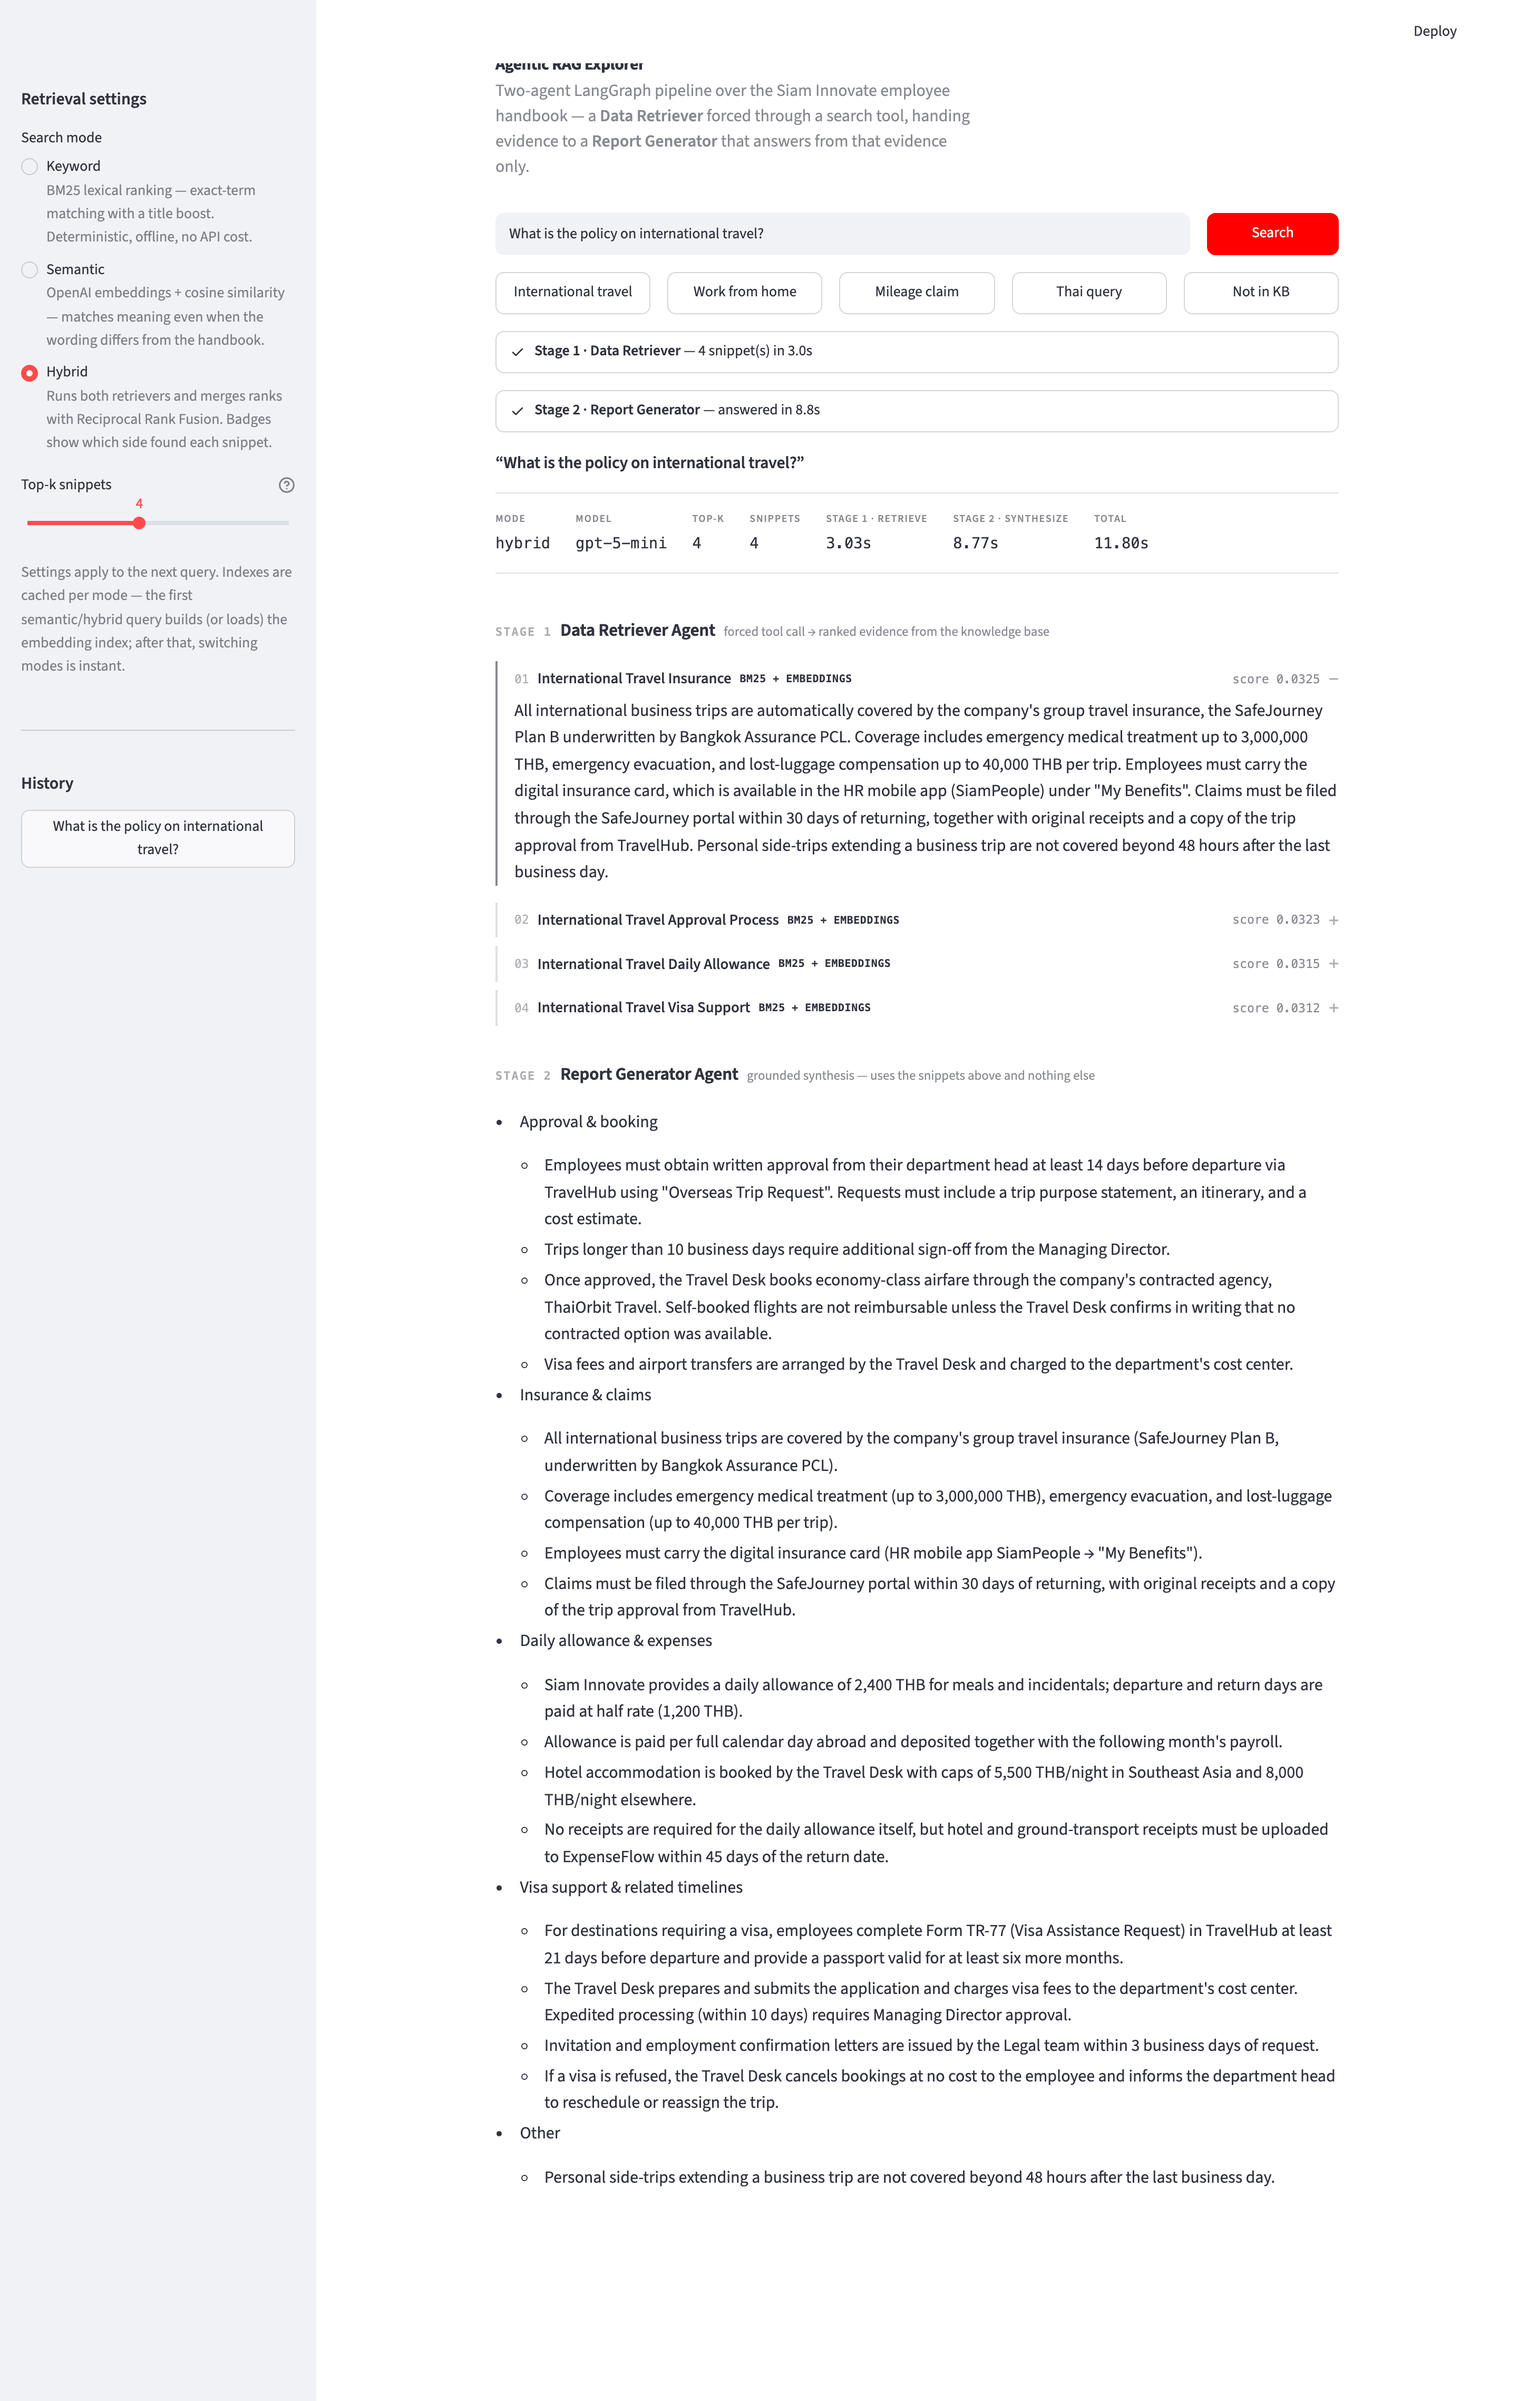
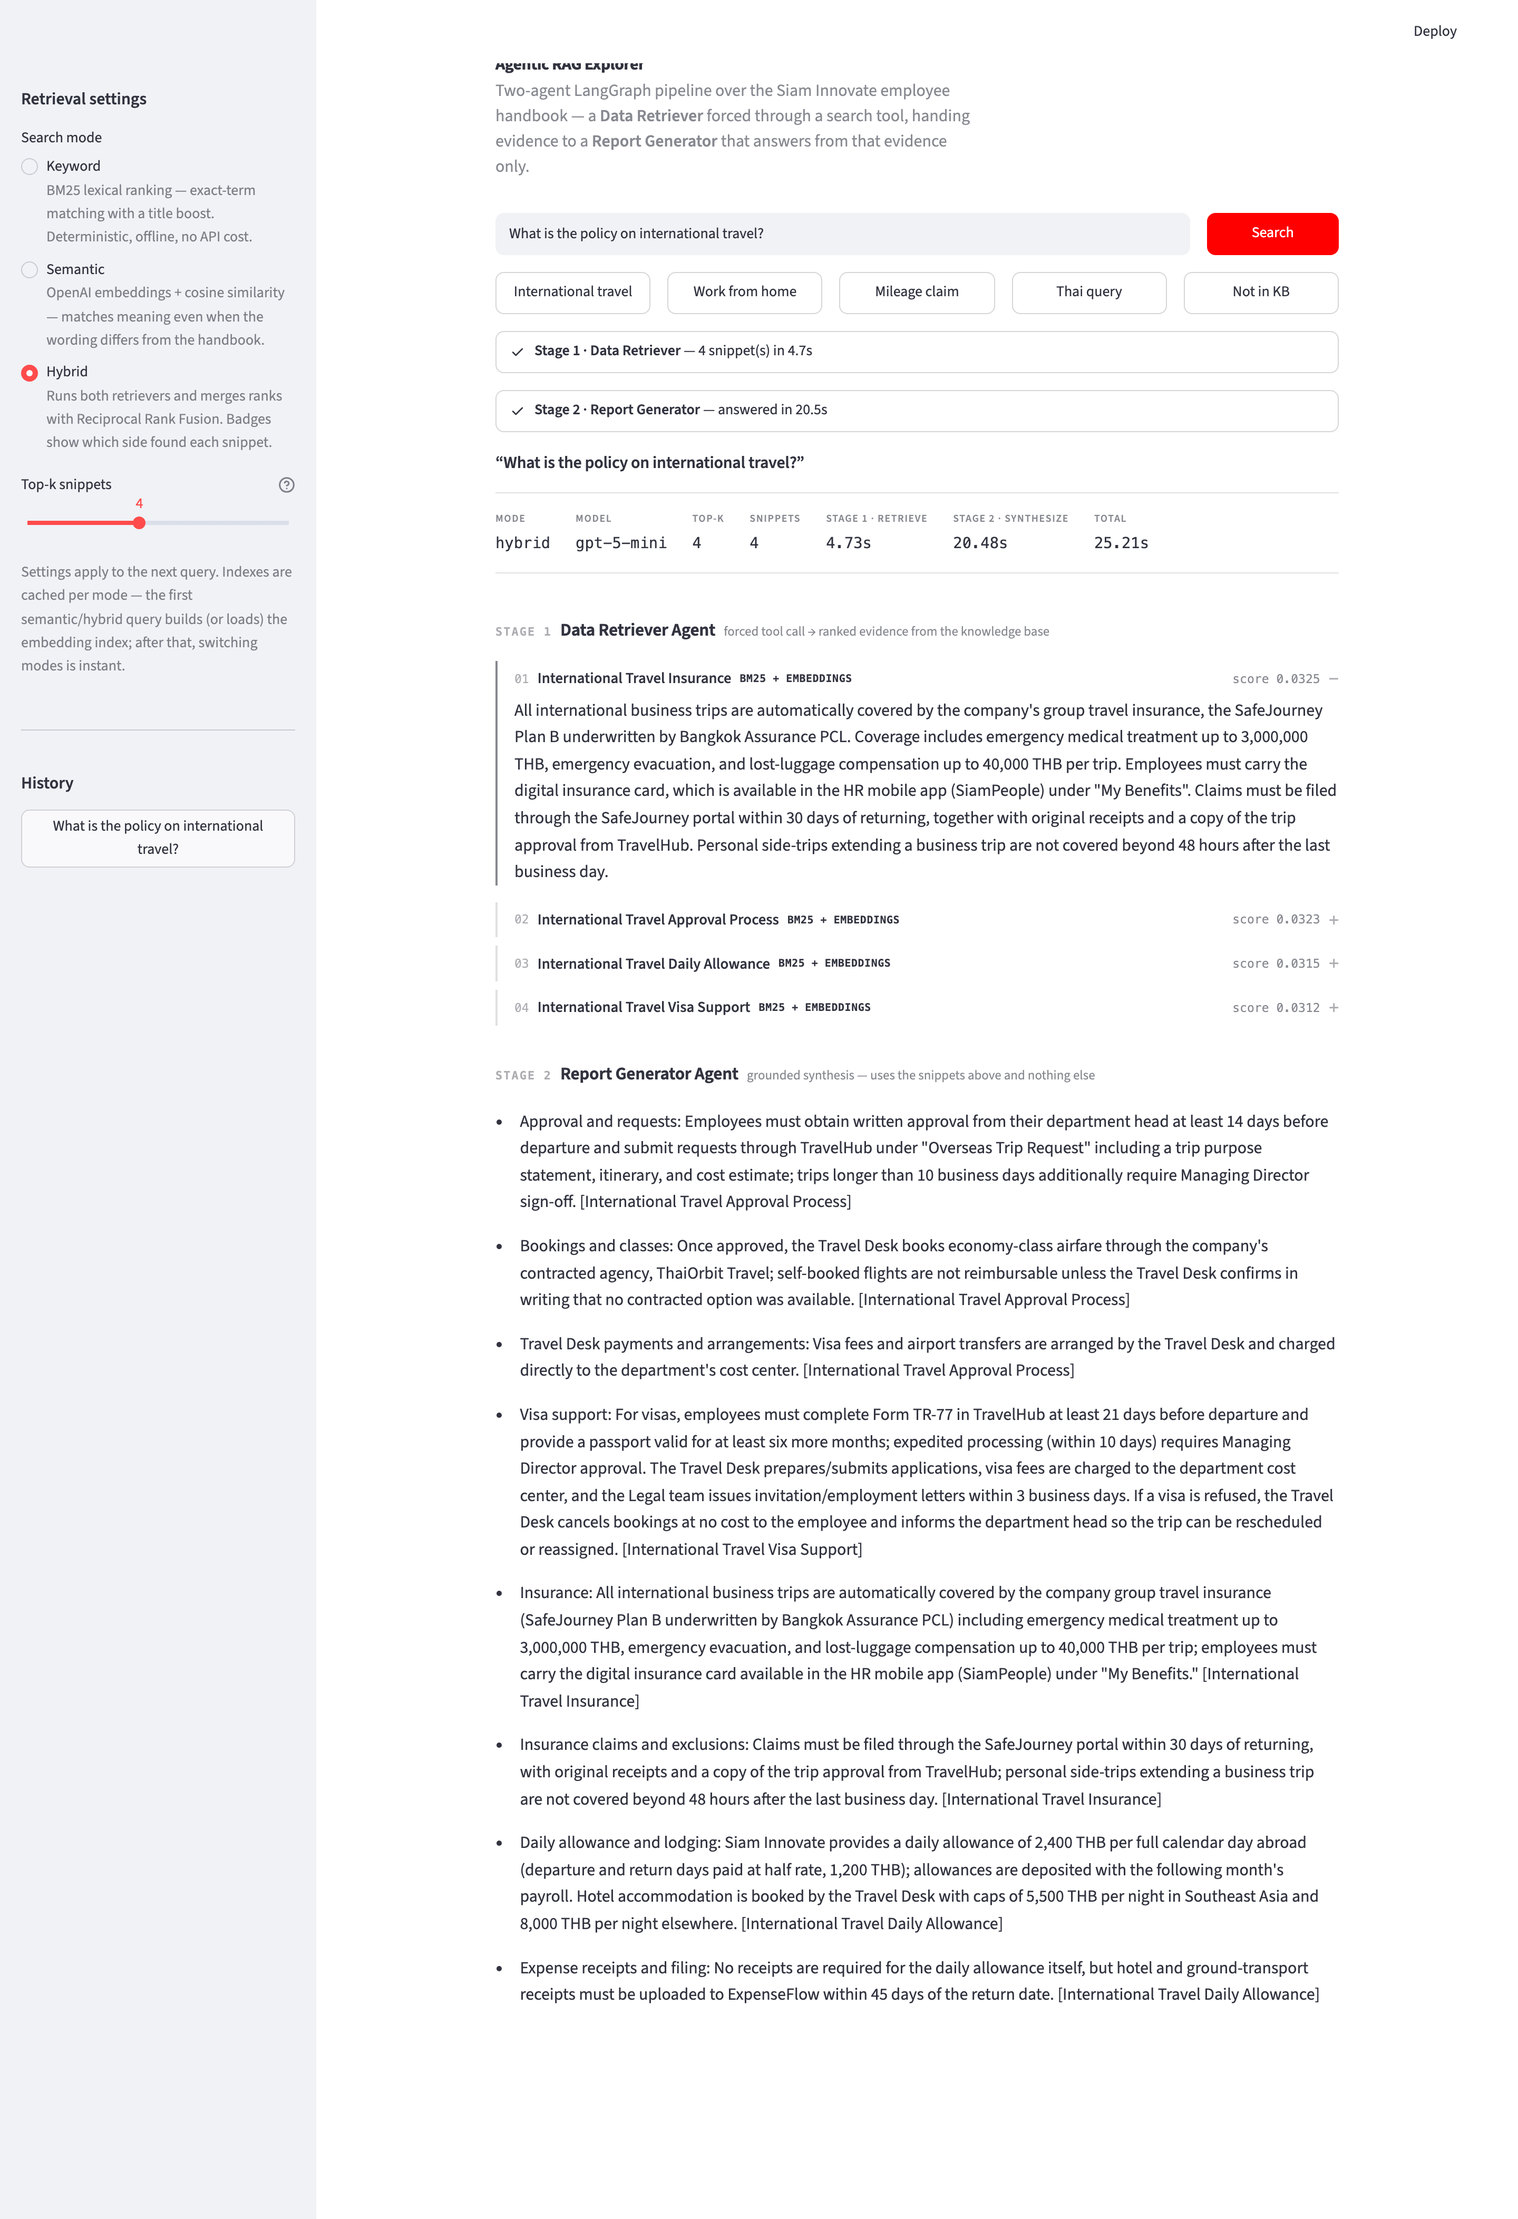
feat: cite source section titles in generated answers
The Report Generator now ends every claim with the [Section Title] it
came from, using only titles present in the snippet headers; the
not-found fallback stays citation-free. Screenshots recaptured to show
the citations, and the README's guardrail and Sample Output sections
updated to match.

diff --git a/src/agents/reporter.py b/src/agents/reporter.py
@@ -31,9 +31,15 @@ Rules:
   knowledge, assumptions, or invented details.
 - Merge overlapping snippets: if the same fact appears in more than one
   snippet, state it exactly once.
+- Each snippet starts with its section title in square brackets, e.g.
+  "[Remote Work Policy]". End every claim with a citation to the section
+  title(s) it came from, in the same square-bracket form:
+  "Remote work requires manager approval. [Remote Work Policy]"
+- Cite only titles that appear in the snippet headers. Never invent a
+  source name.
 - If the snippets do not contain the information needed to answer the
-  query, reply with exactly this sentence and nothing else:
-  "{NOT_FOUND_SENTENCE}"
+  query, reply with exactly this sentence and nothing else — no
+  citation: "{NOT_FOUND_SENTENCE}"
 - Keep the answer concise, well formatted (short paragraphs or bullet
   points), and directly responsive to the query.
 """

diff --git a/README.md b/README.md
@@ -111,7 +111,9 @@ python -m unittest discover -v
 Captured from `streamlit run app.py` in **hybrid** mode. Each run shows the full
 pipeline in one view: the Data Retriever's ranked evidence with scores and
 provenance badges (Stage 1), then the Report Generator's grounded answer
-(Stage 2).
+(Stage 2). Every claim in the answer ends with a citation to the section it
+came from (e.g. `[Remote Work Policy]`), so each statement is traceable to the
+evidence above it; the not-found fallback carries no citation.
 
 **“What is the policy on international travel?”** — the assignment's example
 query. All four travel sections are retrieved and merged into one structured
@@ -183,7 +185,8 @@ implicit call chain, and the pipeline extends by adding a node and an edge.
 **Retrieval guardrails, in layers.** The retriever binds its tool with
 `tool_choice="required"` and executes only the first call, so the model
 *cannot* answer from its own knowledge; the generator is prompted to use only
-the snippets; and when retrieval returns zero snippets the generator node
+the snippets and to end every claim with a `[Section Title]` citation drawn
+from the snippet headers; and when retrieval returns zero snippets the generator node
 short-circuits to a fixed not-found sentence with **no LLM call**, guaranteeing
 that fallback byte-for-byte.
 
